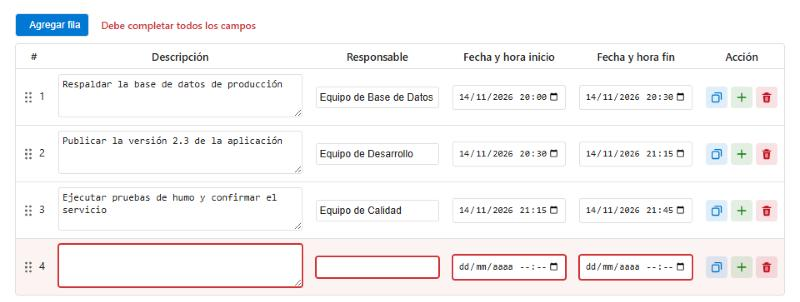
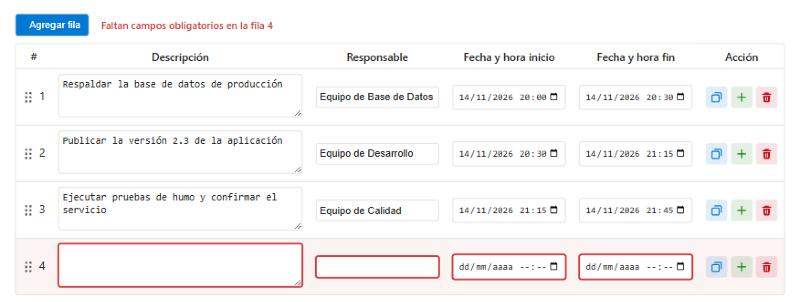
Keep incomplete rows across form tab switches and fix the control height
Write invalid rows to the field so they survive the form recreating the
iframe, while the form error keeps them from being saved. Clear stale form
errors, name the rows in the required fields message, add tableName, and
include the page spacing in the height reported to the form.

diff --git a/src/index.ts b/src/index.ts
@@ -36,17 +36,18 @@ interface TableConfiguration {
   readOnlyStates: string[];  // work item states (System.State) in which the table is locked
   rowActions: RowAction[];   // per-row controls to show; all of them unless configured
   blockSaveOnError: boolean; // block saving the work item while an edited table is invalid
+  tableName: string;         // how the error on top of the form names this table
 }
 
 type Row = { _id: number; [columnId: string]: unknown };
 
 const WORK_ITEM_FORM_SERVICE = "ms.vss-work-web.work-item-form";
 const DEFAULT_FIELD = "Custom.DataTableJSON";
-const REQUIRED_MESSAGE = "Debe completar todos los campos";
+const REQUIRED_FIELD_MESSAGE = "Este campo es obligatorio";
 const CALENDAR_ICON_WIDTH = 28; // px at the right edge of a date field that open the calendar
 const DATE_ORDER_MESSAGE = "La fecha inicial debe ser menor que la fecha final";
 const DROPDOWN_PLACEHOLDER = "— Seleccione —";
-const FORM_ERROR_PREFIX = "Tabla de datos: ";
+const DEFAULT_TABLE_NAME = "Tabla de datos";
 
 let workItemService: IWorkItemFormService | null = null;
 let dataFieldRefName = DEFAULT_FIELD;
@@ -136,7 +137,8 @@ function defaultConfig(): TableConfiguration {
     rules: [],
     readOnlyStates: [],
     rowActions: [...ROW_ACTIONS],
-    blockSaveOnError: true
+    blockSaveOnError: true,
+    tableName: DEFAULT_TABLE_NAME
   };
 }
 
@@ -209,7 +211,19 @@ function getConfiguredTable(): TableConfiguration {
     throw new Error('"blockSaveOnError" debe ser true o false, sin comillas');
   }
 
-  return { columns, rules: Array.isArray(candidate.rules) ? candidate.rules : [], readOnlyStates, rowActions, blockSaveOnError };
+  const tableName = candidate.tableName ?? DEFAULT_TABLE_NAME;
+  if (typeof tableName !== "string" || !tableName.trim()) {
+    throw new Error('"tableName" debe ser un texto, por ejemplo "Plan de rollback"');
+  }
+
+  return {
+    columns,
+    rules: Array.isArray(candidate.rules) ? candidate.rules : [],
+    readOnlyStates,
+    rowActions,
+    blockSaveOnError,
+    tableName: tableName.trim()
+  };
 }
 
 /* Apply font configuration (combo inputs) to the page */
@@ -601,9 +615,15 @@ function dateRuleErrors(rows: Row[]): string[] {
   return [...messages];
 }
 
+/* "Faltan campos obligatorios en la fila 2" / "… en las filas 2, 3 y 5" */
+function requiredFieldsMessage(rows: number[]): string {
+  if (rows.length === 1) return `Faltan campos obligatorios en la fila ${rows[0]}`;
+  return `Faltan campos obligatorios en las filas ${rows.slice(0, -1).join(", ")} y ${rows[rows.length - 1]}`;
+}
+
 /* Shows (or clears) the error on top of the work item form, which also blocks saving it */
 function updateFormError(message: string) {
-  const next = message && tableTouched && tableConfig.blockSaveOnError ? FORM_ERROR_PREFIX + message : "";
+  const next = message && tableTouched && tableConfig.blockSaveOnError ? `${tableConfig.tableName}: ${message}` : "";
   if (!workItemService || next === formError) return;
 
   formError = next;
@@ -613,27 +633,28 @@ function updateFormError(message: string) {
 
 function validateTable(): boolean {
   clearValidationState();
-  // A locked table can't be fixed, so it must never block saving the work item (e.g. while closing it)
-  if (lockReason) {
+  // A locked table can't be fixed, so what it already holds must not block saving the work item.
+  // Unsaved edits still count: closing the work item can't save a table left incomplete
+  if (lockReason && !tableTouched) {
     updateFormError("");
     return true;
   }
 
   const messages: string[] = [];
-  let hasRequiredError = false;
-  tbody().querySelectorAll("tr").forEach(tr => {
+  const incompleteRows: number[] = [];
+  tbody().querySelectorAll("tr").forEach((tr, rowIndex) => {
     tableConfig.columns.forEach(col => {
       // Checkboxes are always valid
       if (!col.required || col.dataType === "boolean") return;
 
       const control = getControl(tr, col.id);
       if (control && String(control.value || "").trim() === "") {
-        hasRequiredError = true;
-        markFieldError(control, REQUIRED_MESSAGE);
+        if (!incompleteRows.includes(rowIndex + 1)) incompleteRows.push(rowIndex + 1);
+        markFieldError(control, REQUIRED_FIELD_MESSAGE);
       }
     });
   });
-  if (hasRequiredError) messages.push(REQUIRED_MESSAGE);
+  if (incompleteRows.length) messages.push(requiredFieldsMessage(incompleteRows));
   messages.push(...dateRuleErrors(getRows()));
 
   const message = messages.join(" · ");
@@ -647,7 +668,9 @@ function validateTable(): boolean {
 // The status line stays empty in normal use (as in 1.4.0) and only reports problems
 async function syncToField(): Promise<boolean> {
   if (!workItemService || lockReason) return false;
-  if (!validateTable()) return false;
+  // Invalid rows are written too: the form recreates this iframe when switching tabs and the
+  // field is all that survives, while the form error keeps them from being saved
+  validateTable();
 
   const payload = JSON.stringify(getRows());
   if (payload === lastSyncedPayload) return true;
@@ -757,6 +780,26 @@ function parseStoredRows(value: unknown): Partial<Row>[] {
   return [];
 }
 
+/* Unsaved changes in the field come from this table, before the form recreated its iframe */
+async function fieldHasUnsavedChanges(): Promise<boolean> {
+  try {
+    const dirtyFields = await workItemService!.getDirtyFields();
+    return dirtyFields.some(f => f.referenceName.toLowerCase() === dataFieldRefName.toLowerCase());
+  } catch (e) {
+    console.error("No se pudieron consultar los campos modificados:", e);
+    return false;
+  }
+}
+
+/* The form error outlives this iframe. With nothing unsaved in the work item, no table needs it */
+async function clearStaleFormError() {
+  try {
+    if (!formError && !(await workItemService!.isDirty())) await workItemService!.clearError();
+  } catch (e) {
+    console.error("Error al actualizar el estado del formulario:", e);
+  }
+}
+
 async function load() {
   if (!workItemService) return;
   // A pending sync belongs to the table being replaced (possibly another work item)
@@ -764,9 +807,10 @@ async function load() {
   try {
     const value = await workItemService.getFieldValue(dataFieldRefName);
     lockReason = await computeLockReason();
+    const unsavedChanges = await fieldHasUnsavedChanges();
 
     isLoadingData = true;
-    tableTouched = false;
+    tableTouched = unsavedChanges;
     tbody().innerHTML = "";
     parseStoredRows(value).forEach(row => createRow(row));
     // Baseline on what the table would write, so just opening the work item doesn't dirty it
@@ -774,6 +818,7 @@ async function load() {
     isLoadingData = false;
 
     validateTable();
+    await clearStaleFormError();
     applyLock();
     SDK.resize();
   } catch (e) {
@@ -873,6 +918,9 @@ function wireEvents() {
   });
   window.addEventListener("blur", closeCalendar);
 
+  // Save before the form can recreate this iframe, e.g. when clicking another form tab
+  window.addEventListener("blur", syncNow);
+
   // Save when user switches tabs/minimizes
   document.addEventListener("visibilitychange", () => {
     if (document.hidden) syncNow();
@@ -964,6 +1012,9 @@ const provider = {
   onFieldChanged: async (args: any) => {
     const changed = args?.changedFields;
     if (!changed) return;
+
+    // The form has one error: another table on the form may have just cleared this table's
+    if (formError) workItemService?.setError(formError).catch(e => console.error("Error al actualizar el estado del formulario:", e));
 
     // State change: keep edits made before it, then re-render locked/unlocked
     if ("System.State" in changed && tableConfig.readOnlyStates.length) {

diff --git a/src/styles.css b/src/styles.css
@@ -33,6 +33,8 @@
 }
 
 html, body { background: transparent; }
+/* Padding, not margin: the SDK sizes the iframe from body.scrollHeight, which leaves margins out */
+body { margin: 0; padding: 8px; }
 .azdo-card {
   font-family: var(--az-font);
   font-size: var(--az-font-size);

diff --git a/overview.md b/overview.md
@@ -48,9 +48,11 @@ Si alguna no aparece, es porque la configuración de tu tabla no la incluye.
 
 Los campos con problemas se marcan en rojo y el motivo aparece junto a **Agregar fila**.
 
-![Fila nueva marcada en rojo con el mensaje "Debe completar todos los campos"](images/tabla-errores.png)
+![Fila nueva marcada en rojo con el mensaje "Faltan campos obligatorios en la fila 4"](images/tabla-errores.png)
 
-Mientras la tabla tenga errores, Azure DevOps muestra el aviso `Tabla de datos: …` arriba del formulario y no deja guardar. Completa los datos o elimina la fila para continuar.
+Mientras la tabla tenga errores, Azure DevOps muestra un aviso arriba del formulario, por ejemplo `Tabla de datos: Faltan campos obligatorios en la fila 4`, y no deja guardar. Completa los datos o elimina la fila para continuar.
+
+Si te cambias de pestaña en el formulario, las filas incompletas se conservan al volver. Solo se pierde una fecha a medio escribir.
 
 Una fecha sin hora cuenta como vacía. Si la columna no es obligatoria, no se marca como error, pero tampoco se guarda.
 
@@ -206,6 +208,7 @@ Con `defaultFromPrevious`, una fila nueva toma un valor de la fila anterior:
 - No distingue mayúsculas y minúsculas, pero sí acentos: el nombre debe coincidir con el estado del proceso.
 - También acepta un texto separado por comas: `"Finalizado, Cerrado"`.
 - La tabla también se bloquea sola si Azure DevOps abre el elemento de trabajo en modo de solo lectura.
+- Si cambias a uno de estos estados con filas incompletas sin guardar, Azure DevOps no deja guardar. Vuelve al estado anterior para corregirlas o eliminarlas.
 
 > **Este bloqueo es solo de la interfaz.** Para que el campo tampoco se pueda cambiar por edición masiva, Excel o la API, crea además una regla en el proceso: en **Rules → New rule**, usa la condición *When the work item state is* `Finalizado` y la acción *Make read-only* sobre el campo de la tabla.
 
@@ -218,9 +221,19 @@ Por defecto, si la tabla editada tiene errores, Azure DevOps no deja guardar el 
 ```
 
 - Con `false`, los errores solo se marcan en la tabla y el elemento de trabajo se puede guardar.
-- **Riesgo con `false`:** mientras haya errores, ningún cambio de la tabla llega al campo, ni siquiera los de filas correctas. Al guardar queda la última versión válida y esos cambios se pierden al recargar.
+- **Riesgo con `false`:** las filas incompletas se guardan tal como están.
 - Solo se activa al editar la tabla: abrir un elemento con datos incompletos no impide guardar otros campos.
 - Debe ser `true` o `false`, sin comillas.
+
+## Nombre de la tabla en los avisos
+
+`tableName` define cómo se nombra la tabla en el aviso de arriba del formulario. Por defecto es *Tabla de datos*. Es útil si el formulario tiene más de una tabla:
+
+```json
+"tableName": "Plan de rollback"
+```
+
+Con esa opción, el aviso dice `Plan de rollback: Faltan campos obligatorios en la fila 2`.
 
 ## Más ejemplos
 
@@ -259,7 +272,7 @@ En uso normal, la tabla no muestra mensajes de estado. Solo aparece un aviso si 
 |---|---|---|
 | `⚠ Configuración de columnas inválida: …` | El JSON tiene un error. La tabla no se muestra y no se lee ni se escribe el campo, para no dañar los datos | Corrige lo que indica el mensaje en las opciones del control |
 | `⚠ Campo no encontrado o no editable: …` | El campo configurado no existe en ese tipo de elemento de trabajo | Revisa el campo de datos en las opciones del control |
-| `Debe completar todos los campos` | Hay una celda obligatoria vacía. Una fecha sin hora cuenta como vacía | Completa la fila o elimínala |
+| `Faltan campos obligatorios en la fila …` | Hay una celda obligatoria vacía en esa fila. Una fecha sin hora cuenta como vacía | Completa la fila o elimínala |
 | `La fecha inicial debe ser menor que la fecha final` | No se cumple una regla de fechas. El texto puede variar según la configuración | Corrige las fechas de la fila marcada |
 | `No se pudo actualizar el campo` | Azure DevOps rechazó el valor | Comprueba que puedes editar el campo y vuelve a intentarlo |
 | `Error al actualizar el campo (ver consola).` | Ocurrió un error inesperado al escribir en el campo | Recarga la página. Si continúa, reporta el problema |

diff --git a/CHANGELOG.md b/CHANGELOG.md
@@ -1,5 +1,23 @@
 # Historial de cambios
 
+## 1.5.2
+
+### Agregado
+
+- **`tableName`:** define cómo se nombra la tabla en el aviso de arriba del formulario.
+
+### Cambiado
+
+- **Mensaje de campos obligatorios:** ahora indica las filas, por ejemplo `Faltan campos obligatorios en la fila 2`.
+- **`blockSaveOnError: false`:** las filas incompletas ahora se guardan tal como están. Antes se perdían todos los cambios sin guardar de la tabla.
+- **Estados de solo lectura:** no se puede guardar el cambio a uno de estos estados si la tabla tiene filas incompletas sin guardar.
+
+### Corregido
+
+- **Cambio de pestaña:** las filas incompletas se conservan al cambiar de pestaña en el formulario.
+- **Aviso obsoleto:** el aviso de arriba del formulario ya no queda activo después de que la tabla se recarga sin cambios pendientes.
+- **Barra de desplazamiento:** ya no aparece una barra vertical en el control, porque ahora toma la altura completa de la tabla.
+
 ## 1.5.1
 
 ### Corregido
